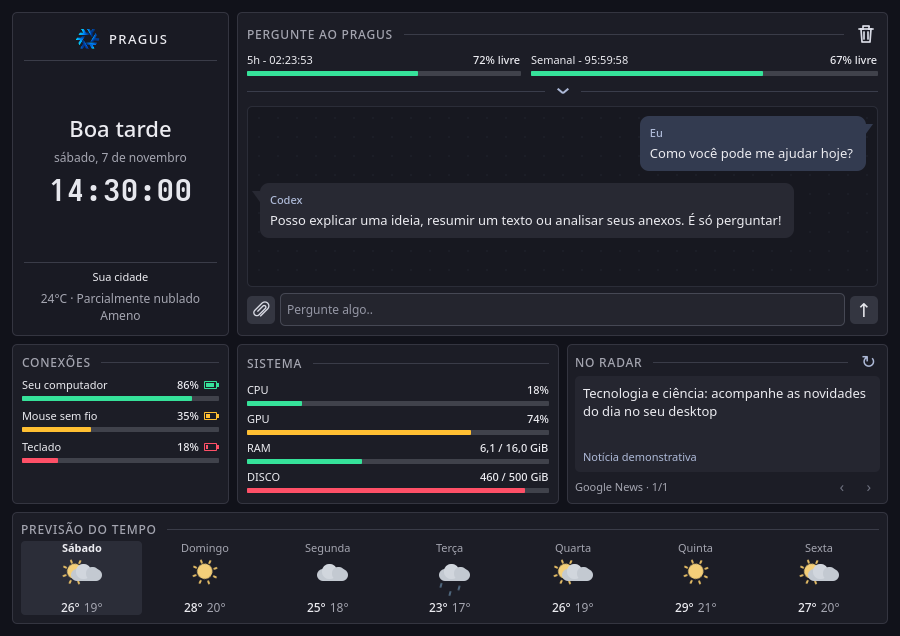
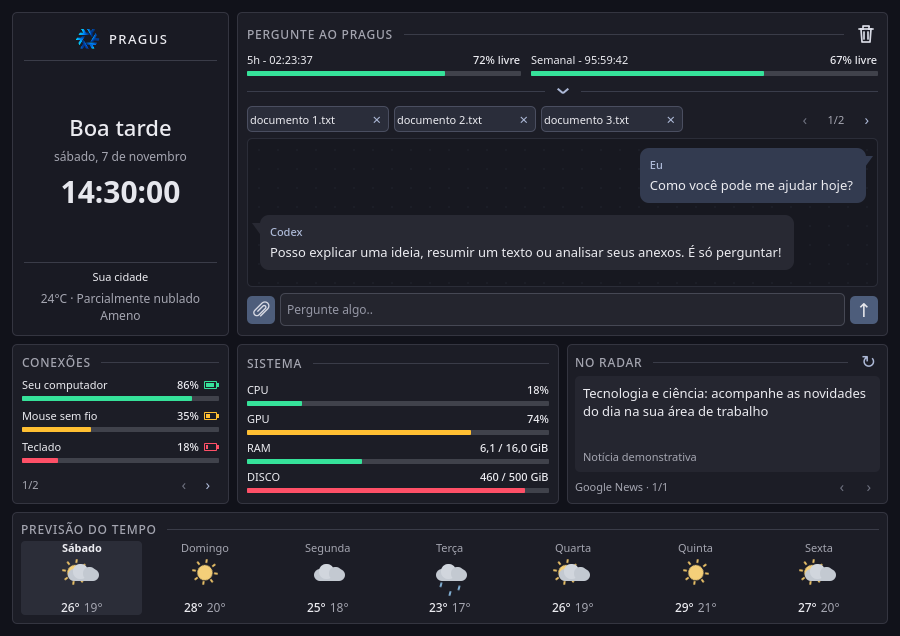
Melhora paginação de conexões e anexos e apresentação das notícias

diff --git a/package/contents/ui/Dashboard.qml b/package/contents/ui/Dashboard.qml
@@ -67,6 +67,17 @@ Item {
     readonly property bool newsPaused: newsHover.hovered
     function percent(v) { return v >= 0 ? Math.round(v) + "%" : "—" }
     function gib(used, total) { const digits = total >= 100 ? 0 : 1; return used >= 0 ? used.toFixed(digits).replace(".", ",") + " / " + total.toFixed(digits).replace(".", ",") + " GiB" : "—" }
+    function newsTitle(story) {
+        const title = String(story.title || "").trim()
+        const source = String(story.source || "").trim()
+        if (source) {
+            for (const separator of [" - ", " – ", " — "]) {
+                const suffix = separator + source
+                if (title.toLowerCase().endsWith(suffix.toLowerCase())) return title.slice(0, -suffix.length).trim()
+            }
+        }
+        return title
+    }
     function modelName(id, name) {
         const match = id.match(/^gpt[- ]?(\d+(?:\.\d+)*)(?:-(.+))?$/i)
         return match ? "GPT " + match[1] + (match[2] ? " - " + match[2].replace(/-/g, " ").toUpperCase() : "") : (name || id)
@@ -127,6 +138,14 @@ Item {
         ScriptAction { script: root.newsPage = root.nextNewsPage }
         ParallelAnimation { NumberAnimation { target: newsContent; property: "opacity"; to: 1; duration: 180 } NumberAnimation { target: newsContent; property: "scale"; to: 1; duration: 180; easing.type: Easing.OutCubic } }
     }
+    PageTransition {
+        id: connectionsPaging; objectName: "connectionsPaging"
+        targetItem: connectionList; pageCount: Math.max(1, Math.ceil(dashboard.peripheralDevices.length / 3))
+    }
+    PageTransition {
+        id: attachmentPaging; objectName: "attachmentPaging"
+        targetItem: attachmentRow; pageCount: Math.max(1, Math.ceil(client.attachments.length / attachmentTray.pageSize))
+    }
     ScrollView {
         anchors.fill: parent; clip: true
         contentWidth: availableWidth
@@ -165,7 +184,7 @@ Item {
                     Item { Layout.fillHeight: true; Layout.minimumHeight: 2 }
                     Text { Layout.fillWidth: true; horizontalAlignment: Text.AlignHCenter; text: dashboard.greeting; color: root.ink; font.pixelSize: 22; font.weight: Font.DemiBold }
                     Text { Layout.fillWidth: true; horizontalAlignment: Text.AlignHCenter; text: dashboard.localDate; color: root.muted; font.pixelSize: 12; wrapMode: Text.Wrap }
-                    Text { Layout.fillWidth: true; horizontalAlignment: Text.AlignHCenter; text: dashboard.localTime; color: "#e6e7ed"; font.pixelSize: 30; minimumPixelSize: 20; fontSizeMode: Text.HorizontalFit; font.weight: Font.DemiBold; font.family: "Adwaita Mono" }
+                    Text { Layout.fillWidth: true; horizontalAlignment: Text.AlignHCenter; objectName: "clockText"; text: dashboard.localTime; color: "#e6e7ed"; font.pixelSize: 30; minimumPixelSize: 20; fontSizeMode: Text.HorizontalFit; font.weight: Font.ExtraBold; font.family: "Noto Sans"; font.features: { "tnum": 1 } }
                     Item { Layout.fillHeight: true; Layout.minimumHeight: 2 }
                     ColumnLayout {
                         objectName: "identityWeatherFooter"
@@ -186,12 +205,12 @@ Item {
                 ColumnLayout {
                     anchors.fill: parent; anchors.margins: 10; spacing: 6
                     SectionHeading { text: "CONEXÕES" }
-                    Flickable {
-                        Layout.fillWidth: true; Layout.fillHeight: true; clip: true; contentHeight: connectionList.implicitHeight; boundsBehavior: Flickable.StopAtBounds
+                    Item {
+                        Layout.fillWidth: true; Layout.fillHeight: true; Layout.minimumHeight: connectionList.implicitHeight; clip: true
                         ColumnLayout {
                             id: connectionList; width: parent.width; spacing: 7
                             Repeater {
-                                model: dashboard.peripheralDevices
+                                model: dashboard.peripheralDevices.slice(connectionsPaging.page * 3, connectionsPaging.page * 3 + 3)
                                 delegate: Meter {
                                     required property var modelData
                                     Layout.fillWidth: true; label: modelData.name; value: modelData.percent; remaining: true; battery: true
@@ -200,7 +219,12 @@ Item {
                             }
                         }
                         Text { visible: dashboard.peripheralDevices.length === 0; text: "Nenhum periférico identificado"; color: root.muted; font.pixelSize: 11 }
-                        ScrollBar.vertical: ScrollBar { width: 3 }
+                    }
+                    RowLayout {
+                        Layout.fillWidth: true; spacing: 2; visible: connectionsPaging.pageCount > 1
+                        Text { Layout.fillWidth: true; text: (connectionsPaging.page + 1) + "/" + connectionsPaging.pageCount; color: root.muted; font.pixelSize: 11 }
+                        IconButton { objectName: "previousConnections"; implicitWidth: 22; implicitHeight: 20; text: "‹"; hint: "Conexões anteriores"; enabled: connectionsPaging.page > 0 && !connectionsPaging.running; onClicked: connectionsPaging.goTo(connectionsPaging.page - 1) }
+                        IconButton { objectName: "nextConnections"; implicitWidth: 22; implicitHeight: 20; text: "›"; hint: "Próximas conexões"; enabled: connectionsPaging.page < connectionsPaging.pageCount - 1 && !connectionsPaging.running; onClicked: connectionsPaging.goTo(connectionsPaging.page + 1) }
                     }
                 }
             }
@@ -300,40 +324,38 @@ Item {
                         }
                     }
                     }
-                    Flickable {
+                    RowLayout {
                         id: attachmentTray; objectName: "attachmentTray"
-                        Layout.fillWidth: true; Layout.preferredHeight: visible ? Math.min(26, attachmentFlow.implicitHeight) : 0
-                        Layout.minimumHeight: Layout.preferredHeight; Layout.maximumHeight: Layout.preferredHeight
-                        visible: client.attachments.length > 0
-                        clip: true; contentWidth: width; contentHeight: attachmentFlow.implicitHeight
-                        flickableDirection: Flickable.VerticalFlick; boundsBehavior: Flickable.StopAtBounds
-                        maximumFlickVelocity: 400; flickDeceleration: 4500
-                        ScrollBar.vertical: ScrollBar { width: 4; policy: ScrollBar.AsNeeded }
-                        WheelHandler {
-                            onWheel: event => {
-                                attachmentTray.contentY = Math.max(0, Math.min(Math.max(0, attachmentTray.contentHeight - attachmentTray.height), attachmentTray.contentY - (event.pixelDelta.y || event.angleDelta.y / 120 * 26)))
-                                event.accepted = true
-                            }
-                        }
-                        Flow {
-                            id: attachmentFlow; objectName: "attachmentFlow"; width: Math.max(0, attachmentTray.width - 9); spacing: 5
-                            Repeater {
-                                model: client.attachments
-                                delegate: Rectangle {
-                                    required property var modelData
-                                    objectName: "attachmentChip"
-                                    width: Math.min(142, attachmentFlow.width); height: 26; radius: 5; color: "#2a2d3a"; border.color: "#4a4e60"
-                                    RowLayout {
-                                        anchors.fill: parent; anchors.margins: 3; spacing: 4
-                                        Image { visible: modelData.kind === "image"; source: modelData.preview || ""; Layout.preferredWidth: 18; Layout.preferredHeight: 18; fillMode: Image.PreserveAspectFit }
-                                        ColumnLayout {
-                                            Layout.fillWidth: true; Layout.minimumWidth: 0; spacing: 2
-                                            Text { Layout.fillWidth: true; text: modelData.name; color: root.ink; font.pixelSize: 11; elide: Text.ElideMiddle }
+                        readonly property bool paginated: client.attachments.length > Math.max(1, Math.floor((width + 5) / 147))
+                        readonly property int pageSize: Math.max(1, Math.floor((width - (paginated ? 89 : 0) + 5) / 147))
+                        Layout.fillWidth: true; Layout.preferredHeight: 26; Layout.minimumHeight: 26; Layout.maximumHeight: 26
+                        visible: client.attachments.length > 0; spacing: 5
+                        Item {
+                            Layout.fillWidth: true; Layout.fillHeight: true; Layout.minimumWidth: 0; clip: true
+                            Row {
+                                id: attachmentRow; objectName: "attachmentRow"; width: parent.width; height: 26; spacing: 5
+                                Repeater {
+                                    model: client.attachments.slice(attachmentPaging.page * attachmentTray.pageSize, (attachmentPaging.page + 1) * attachmentTray.pageSize)
+                                    delegate: Rectangle {
+                                        required property var modelData
+                                        objectName: "attachmentChip"
+                                        width: Math.min(142, attachmentRow.width); height: 26; radius: 5; color: "#2a2d3a"; border.color: "#4a4e60"
+                                        RowLayout {
+                                            anchors.fill: parent; anchors.margins: 3; spacing: 4
+                                            Image { visible: modelData.kind === "image"; source: modelData.preview || ""; Layout.preferredWidth: 18; Layout.preferredHeight: 18; fillMode: Image.PreserveAspectFit }
+                                            Text { Layout.fillWidth: true; Layout.minimumWidth: 0; text: modelData.name; color: root.ink; font.pixelSize: 11; elide: Text.ElideMiddle }
+                                            IconButton { implicitWidth: 18; implicitHeight: 18; text: "×"; hint: "Remover anexo"; enabled: !client.busy; onClicked: client.removeAttachment(modelData.id) }
                                         }
-                                        IconButton { implicitWidth: 18; implicitHeight: 18; text: "×"; hint: "Remover anexo"; enabled: !client.busy; onClicked: client.removeAttachment(modelData.id) }
                                     }
                                 }
                             }
+                        }
+                        RowLayout {
+                            Layout.preferredWidth: 84; Layout.minimumWidth: 84; Layout.maximumWidth: 84
+                            visible: attachmentTray.paginated; spacing: 2
+                            IconButton { objectName: "previousAttachments"; implicitWidth: 22; implicitHeight: 20; text: "‹"; hint: "Anexos anteriores"; enabled: attachmentPaging.page > 0 && !attachmentPaging.running; onClicked: attachmentPaging.goTo(attachmentPaging.page - 1) }
+                            Text { Layout.fillWidth: true; horizontalAlignment: Text.AlignHCenter; text: (attachmentPaging.page + 1) + "/" + attachmentPaging.pageCount; color: root.muted; font.pixelSize: 11 }
+                            IconButton { objectName: "nextAttachments"; implicitWidth: 22; implicitHeight: 20; text: "›"; hint: "Próximos anexos"; enabled: attachmentPaging.page < attachmentPaging.pageCount - 1 && !attachmentPaging.running; onClicked: attachmentPaging.goTo(attachmentPaging.page + 1) }
                         }
                     }
                     Item {
@@ -530,10 +552,10 @@ Item {
                                 background: Rectangle { color: parent.hovered ? "#343641" : "#252630"; radius: 5 }
                                 contentItem: ColumnLayout {
                                     spacing: 4
-                                    AdaptiveHeadline { objectName: "newsHeadline"; Layout.fillWidth: true; Layout.fillHeight: true; Layout.minimumHeight: 0; text: modelData.title; color: root.ink }
-                                    Text { objectName: "newsSource"; Layout.fillWidth: true; text: modelData.source || "Google News"; color: root.accent; font.pixelSize: 11; textFormat: Text.PlainText; elide: Text.ElideRight }
+                                    AdaptiveHeadline { objectName: "newsHeadline"; Layout.fillWidth: true; Layout.fillHeight: true; Layout.minimumHeight: 0; text: root.newsTitle(modelData); color: root.ink }
+                                    Text { objectName: "newsSource"; Layout.fillWidth: true; text: modelData.source || "Google News"; color: root.muted; font.pixelSize: 11; textFormat: Text.PlainText; elide: Text.ElideRight }
                                 }
-                                ToolTip.visible: hovered; ToolTip.text: modelData.title
+                                ToolTip.visible: hovered; ToolTip.text: root.newsTitle(modelData)
                             }
                         }
                         Text { Layout.fillWidth: true; Layout.fillHeight: true; visible: dashboard.news.length === 0; text: dashboard.newsStatus; color: root.muted; font.pixelSize: 11; wrapMode: Text.Wrap }

diff --git a/package/contents/ui/PageTransition.qml b/package/contents/ui/PageTransition.qml
@@ -1,0 +1,27 @@
+import QtQuick
+
+SequentialAnimation {
+    id: root
+    required property Item targetItem
+    property int pageCount: 1
+    property int page: 0
+    property int nextPage: 0
+    function goTo(requestedPage) {
+        if (running) return
+        nextPage = Math.max(0, Math.min(pageCount - 1, requestedPage))
+        if (nextPage !== page) restart()
+    }
+    onPageCountChanged: {
+        page = Math.max(0, Math.min(page, pageCount - 1))
+        nextPage = Math.max(0, Math.min(nextPage, pageCount - 1))
+    }
+    ParallelAnimation {
+        NumberAnimation { target: root.targetItem; property: "opacity"; to: 0; duration: 110 }
+        NumberAnimation { target: root.targetItem; property: "scale"; to: .97; duration: 110 }
+    }
+    ScriptAction { script: root.page = root.nextPage }
+    ParallelAnimation {
+        NumberAnimation { target: root.targetItem; property: "opacity"; to: 1; duration: 180 }
+        NumberAnimation { target: root.targetItem; property: "scale"; to: 1; duration: 180; easing.type: Easing.OutCubic }
+    }
+}

diff --git a/README.md b/README.md
@@ -13,7 +13,7 @@ Um widget para KDE Plasma 6 com chat via Codex, monitoramento do computador, not
 ![C++17](https://img.shields.io/badge/C%2B%2B-17-00599C?style=flat-square)
 ![Licença MIT](https://img.shields.io/badge/Licen%C3%A7a-MIT-a4a5b0?style=flat-square)
 
-<img src="docs/preview.png" width="900" alt="Prévia atualizada do PRAGUS com espaçamento nas mensagens, contagem regressiva das cotas, barras por faixa de uso e previsão de sete dias" />
+<img src="docs/preview.png" width="900" alt="Prévia atualizada do PRAGUS com relógio em fonte encorpada, paginação de conexões e anexos, contagem regressiva das cotas e previsão animada de sete dias" />
 
 <sub>Interface real com dados demonstrativos.</sub>
 
@@ -22,11 +22,11 @@ Um widget para KDE Plasma 6 com chat via Codex, monitoramento do computador, not
 ## O que ele faz
 
 - **Pergunte ao PRAGUS:** respostas em tempo real, seleção de modelo e esforço, carregamento, interrupção e limpeza da conversa. Barras mostram o saldo disponível das cotas de 5 horas e semanal, com contagem regressiva para renovação em horas, minutos e segundos.
-- **Anexos:** imagens e arquivos no contexto da pergunta, com miniaturas compactas, remoção individual e rolagem vertical em uma faixa de uma linha. A lixeira limpa também os anexos ainda não enviados.
+- **Anexos:** imagens e arquivos no contexto da pergunta, com miniaturas compactas, remoção individual e paginação por setas em uma faixa de uma linha, com a mesma transição suave das notícias. A lixeira limpa também os anexos ainda não enviados.
 - **Sistema:** CPU e GPU em porcentagem; RAM e disco em GiB usados/total. As barras ficam verdes abaixo de 70% de uso, amarelas de 70% a menos de 90% e vermelhas a partir de 90%. Os textos e valores permanecem brancos.
-- **Conexões:** bateria do computador e dos periféricos que publicam essa informação no Linux. Baterias e saldo das cotas ficam verdes acima de 40%, amarelos acima de 20% até 40% e vermelhos até 20%; em Conexões, o ícone de bateria acompanha a cor da barra. O nome do computador vem do modelo DMI, com alternativa para o hostname.
-- **No radar:** manchetes do Google News Brasil, uma por vez, com troca a cada 30 segundos e pausa ao passar o mouse. Atualizar volta à primeira notícia.
-- **Previsão do tempo:** localização aproximada pela rede, condição atual e sete dias de previsão, com máximas, mínimas e ícones animados.
+- **Conexões:** bateria do computador e dos periféricos que publicam essa informação no Linux. Baterias e saldo das cotas ficam verdes acima de 40%, amarelos acima de 20% até 40% e vermelhos até 20%; em Conexões, o ícone de bateria acompanha a cor da barra. O nome do computador vem do modelo DMI, com alternativa para o hostname. Quando há mais de três conexões, setas permitem alternar as páginas com animação, mantendo o tamanho do cartão.
+- **No radar:** manchetes do Google News Brasil, uma por vez, com troca a cada 30 segundos e pausa ao passar o mouse. Atualizar volta à primeira notícia. O nome da fonte aparece apenas no rodapé da manchete.
+- **Previsão do tempo:** localização aproximada pela rede, condição atual e sete dias de previsão, com máximas e mínimas. Ícones de sol, nuvens, chuva, neve e trovoada têm animações contínuas no próprio widget. Os dados são atualizados automaticamente a cada dez minutos; as animações permanecem em movimento entre as consultas.
 
 O layout adapta os cartões à largura disponível. Relógio e saudação seguem o fuso configurado no sistema; a previsão usa o fuso da localização detectada.
 
@@ -83,7 +83,7 @@ kpackagetool6 -t Plasma/Applet -r local.codex.desk
 
 ## Dados e privacidade
 
-O repositório contém código, recursos visuais e um prévia demonstrativa. Credenciais, arquivos de ambiente, logs e binários gerados são ignorados pelo Git. O widget usa o login do Codex CLI, sem chaves de API embutidas no código.
+O repositório contém código, recursos visuais e uma prévia demonstrativa. Credenciais, arquivos de ambiente, logs e binários gerados são ignorados pelo Git. O widget usa o login do Codex CLI, sem chaves de API embutidas no código.
 
 As mensagens ficam na memória do widget até limpar ou reiniciar. **Perguntas e anexos enviados são processados pelo Codex**, conforme a conta e as configurações do CLI, que pode manter registros próprios. Limpar o widget não apaga registros mantidos pelo CLI ou pelo serviço.
 
